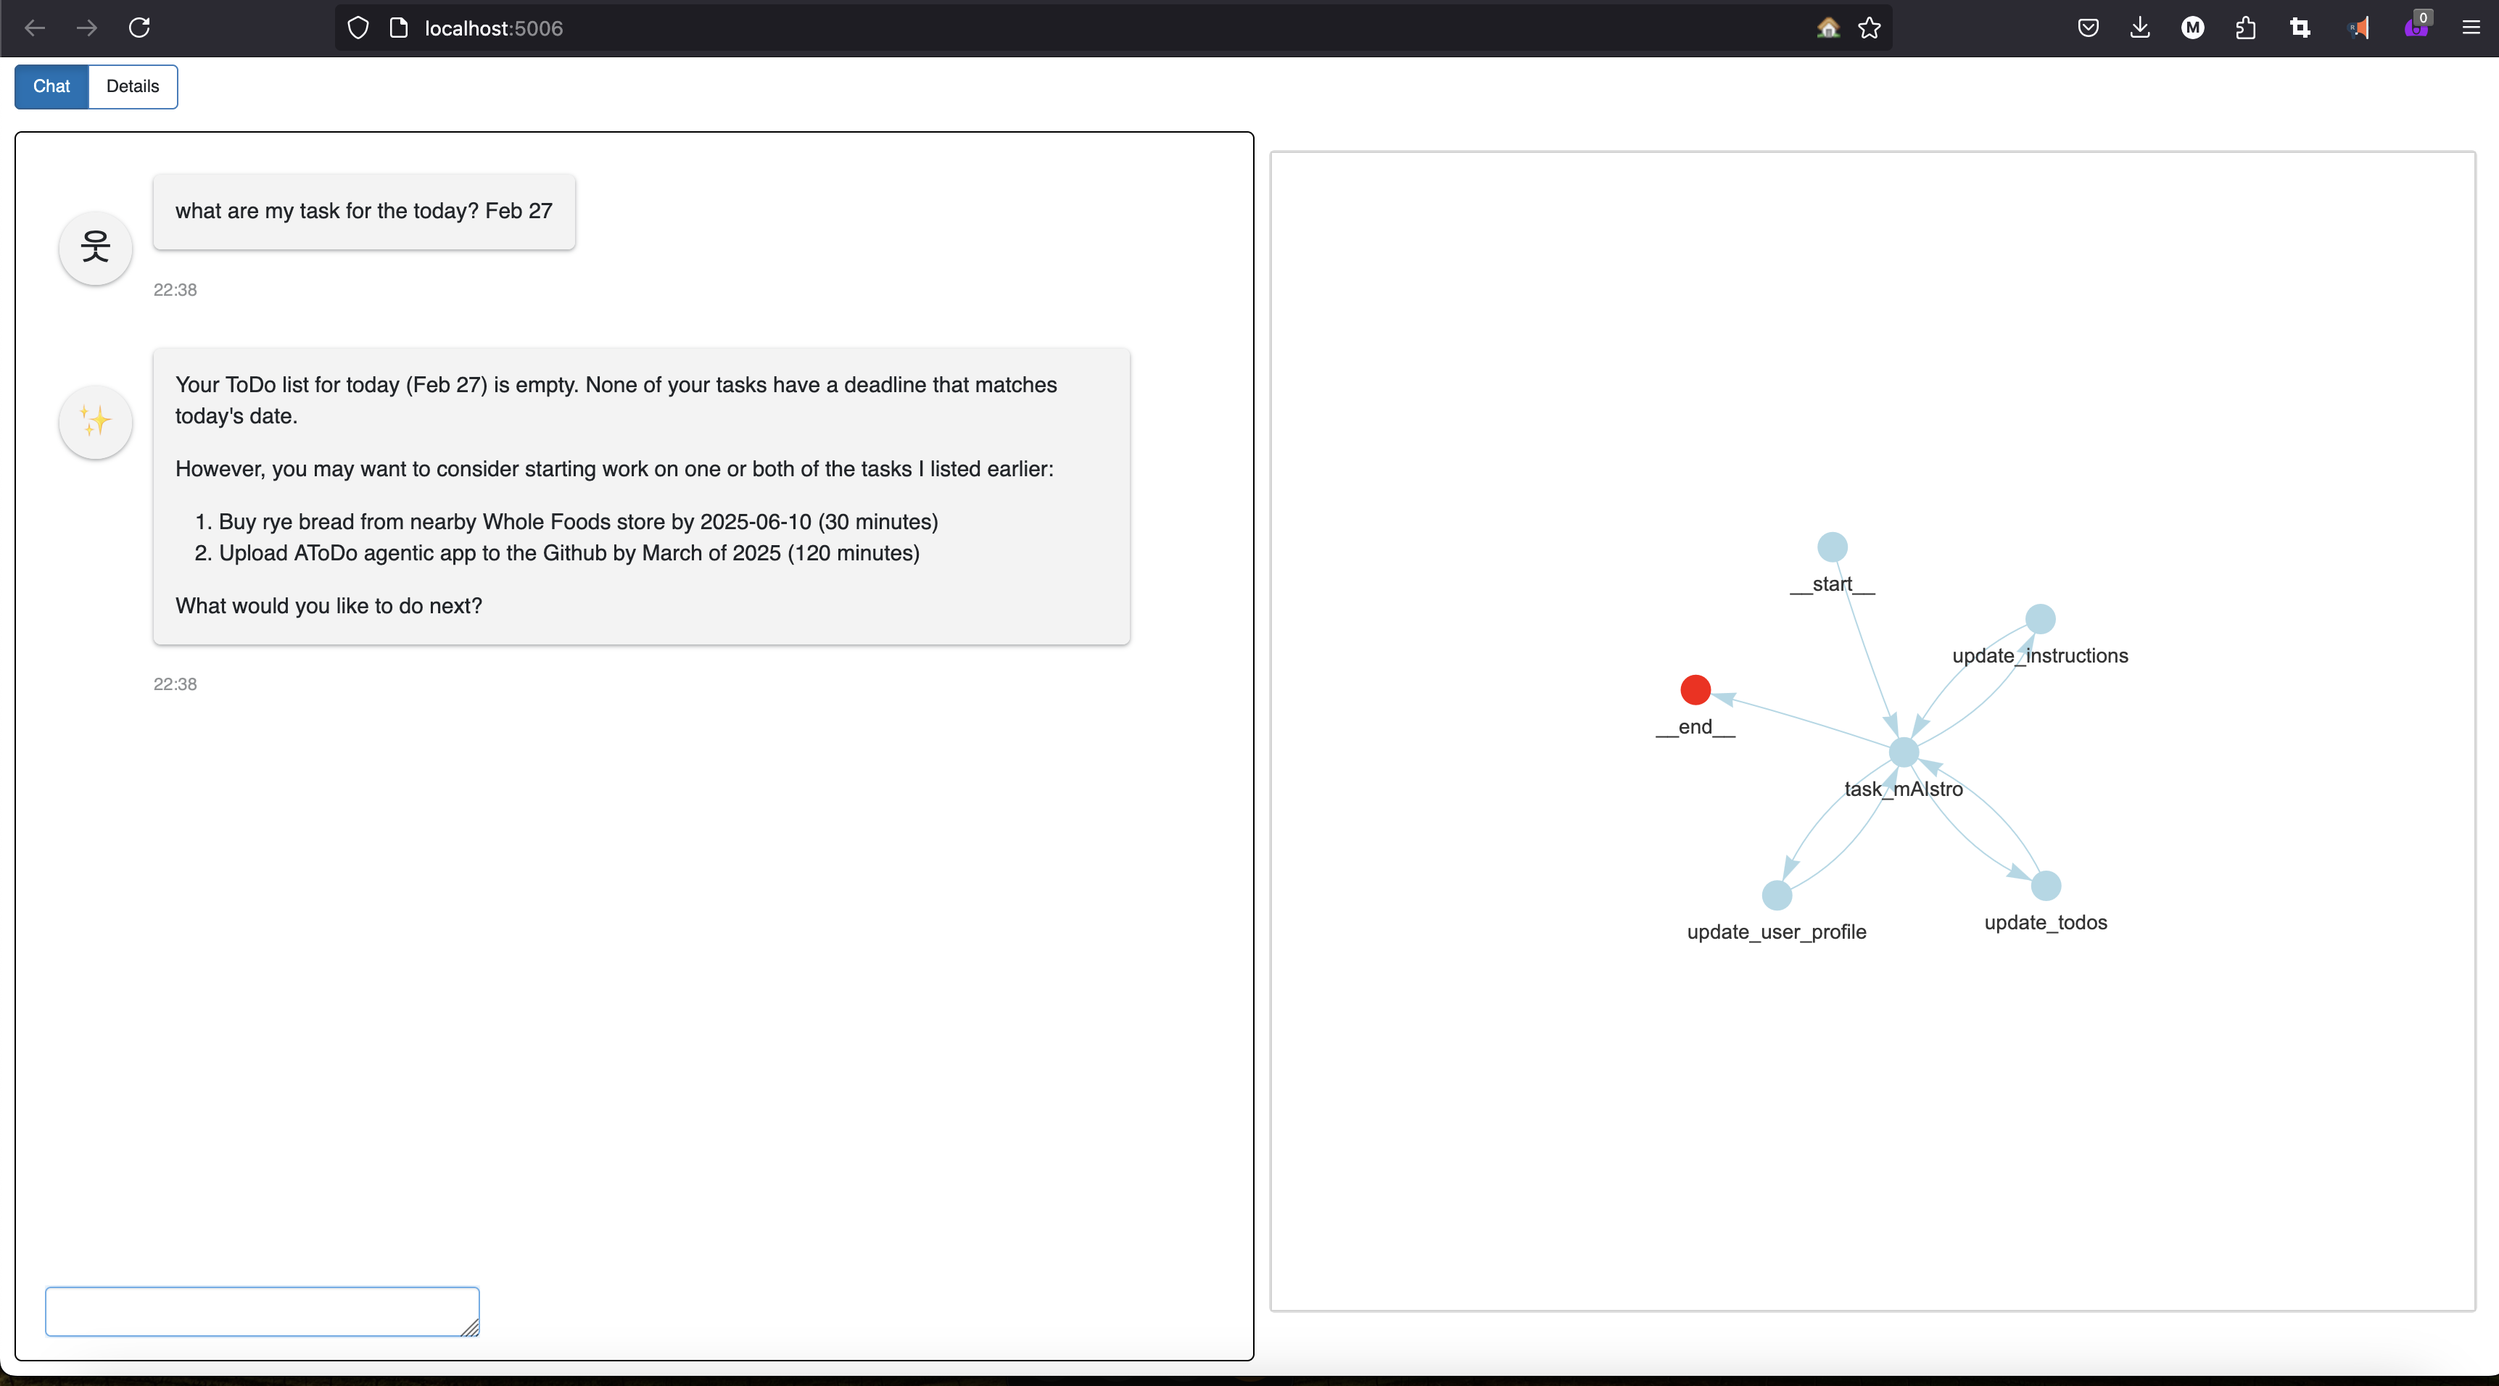
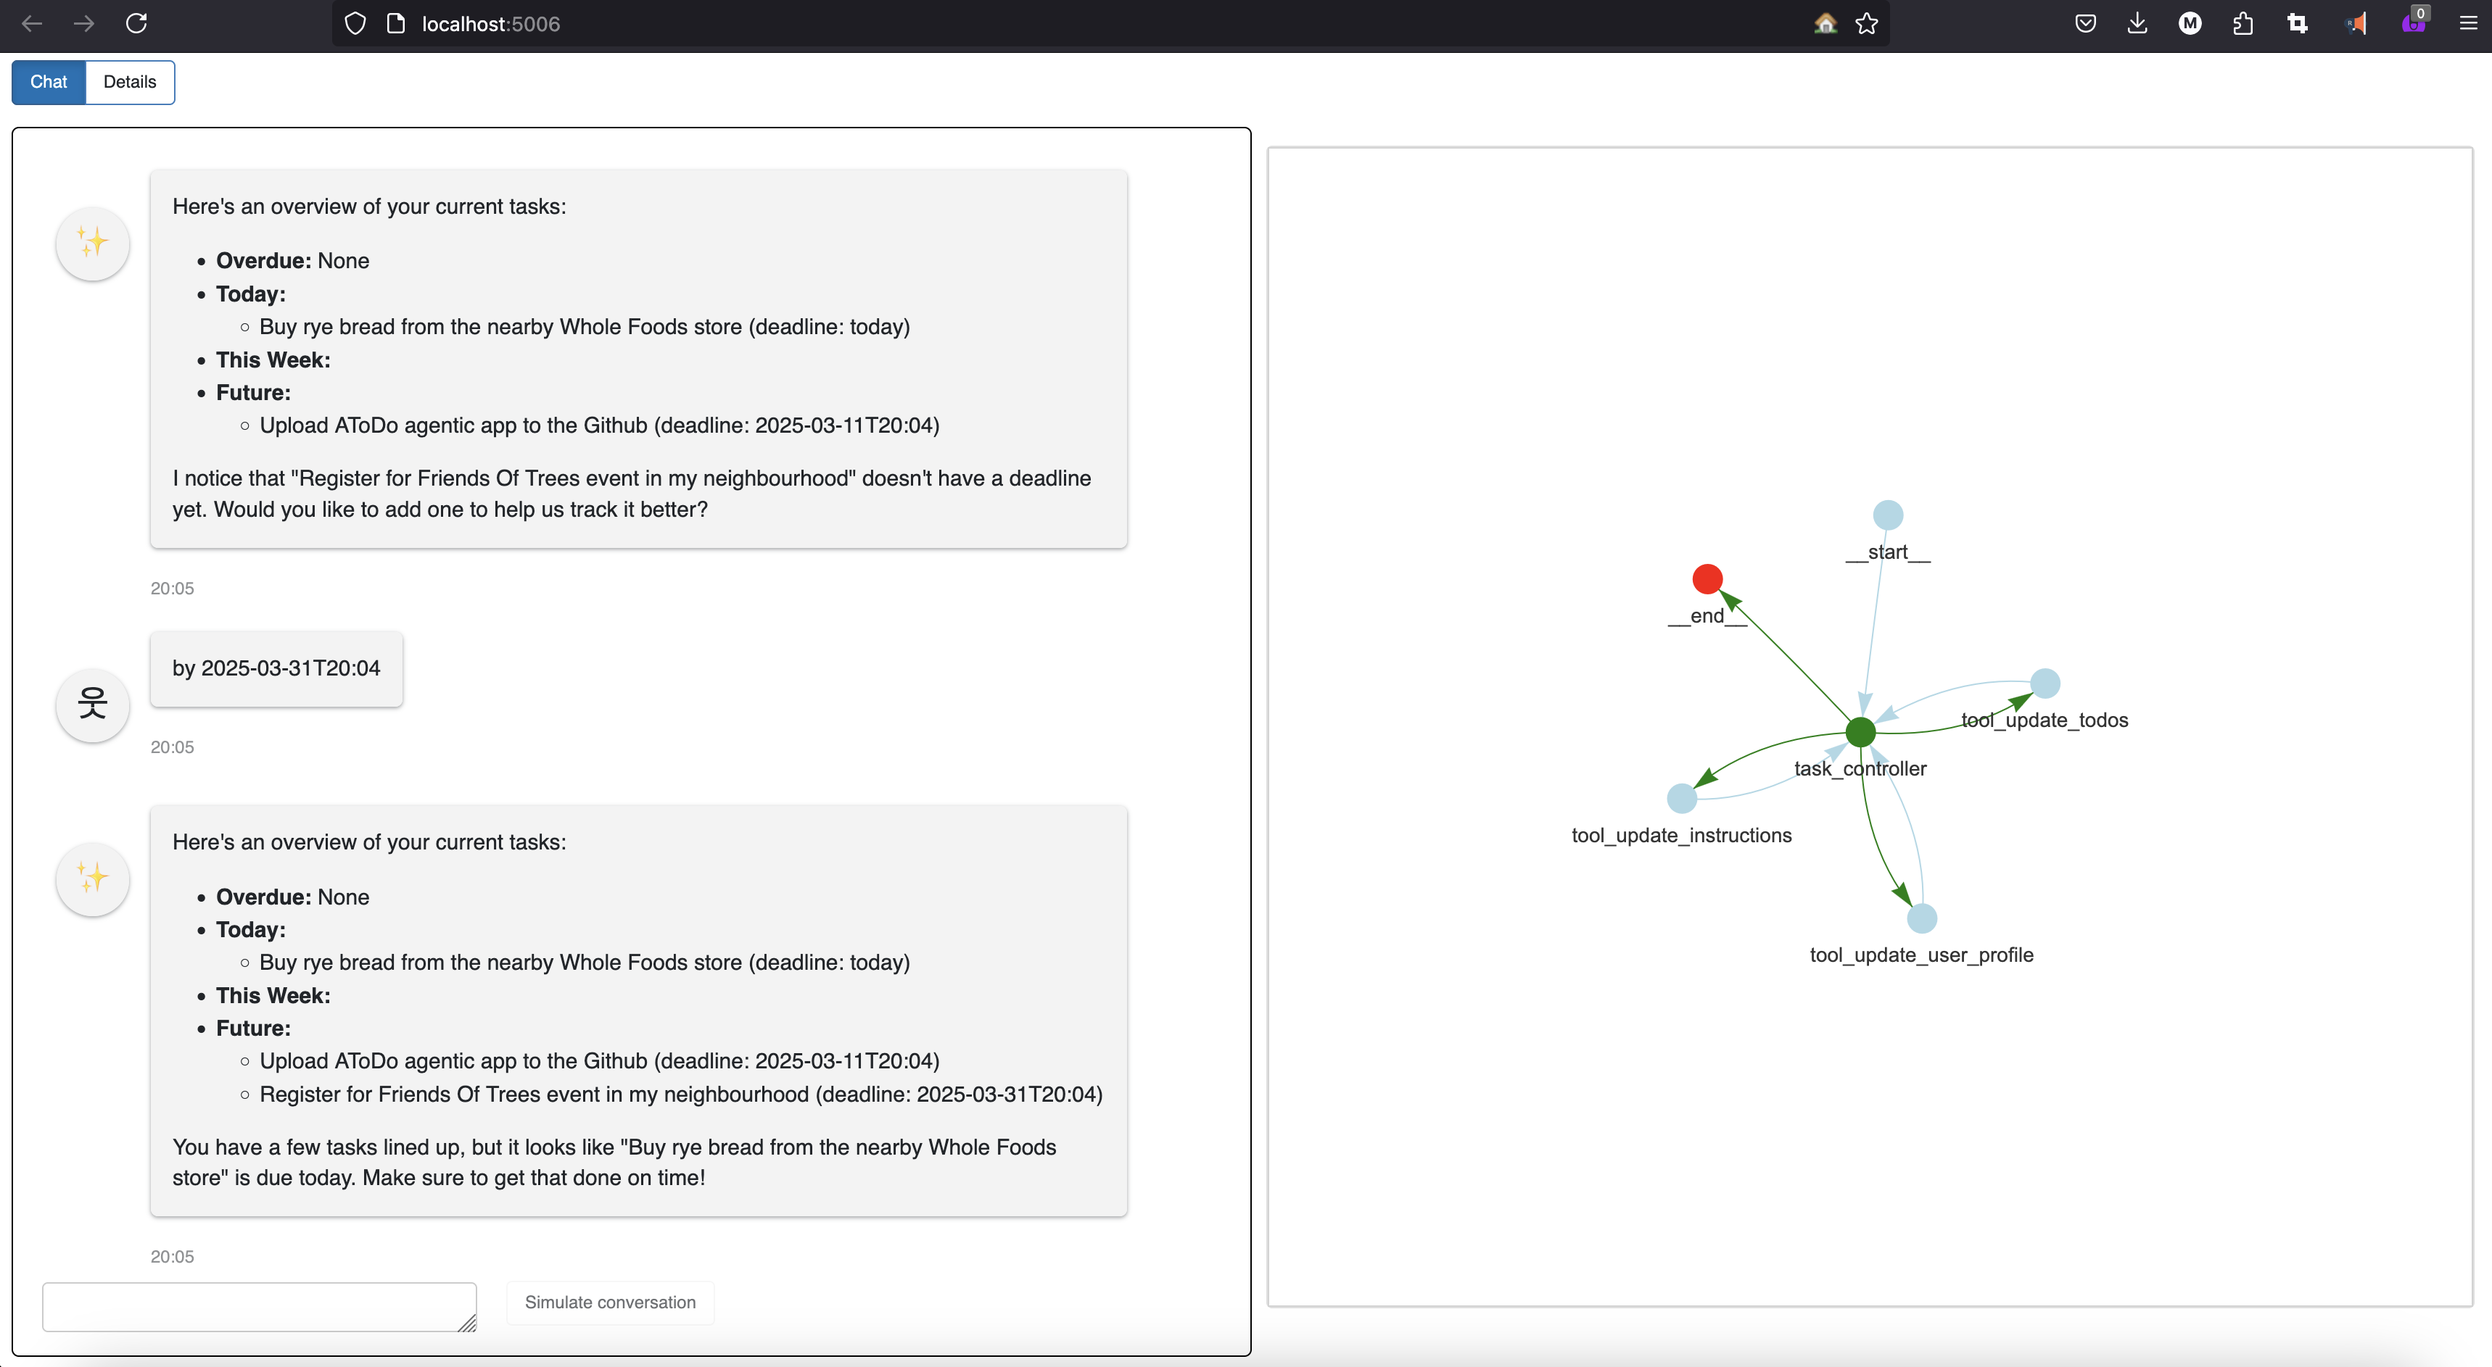
Some fixes; Adding *simulate conversation* button

diff --git a/assistant/inf_graph_todo.py b/assistant/inf_graph_todo.py
@@ -18,7 +18,7 @@ from assistant.inspector import ToolInvocationInspector, extract_tool_info
 # Chatbot instruction for choosing:
 # - what to update: user_profile, list of todos or instructions
 # - which tool to call: "user_profile", "todo" or "instructions"
-INSTRUCTION_MEMORY_TOOL_AND_RESPONSE = """{atodo_assistant_role} 
+INSTRUCTION_MEMORY_TOOL_AND_RESPONSE = """{assistant_role} 
 
 You have a long term memory which keeps track of three things:
 1. The user's profile (general information about them) 
@@ -89,14 +89,14 @@ profile_extractor = create_extractor(
 
 
 ## Node definitions
-def task_mAIstro(state: MessagesState, config: RunnableConfig, store: BaseStore):
+def task_controller(state: MessagesState, config: RunnableConfig, store: BaseStore):
     """Load memories from the Memory Store and use them to personalize the chatbot's response."""
 
     # Get the user ID from the config
     configurable = assistant.models.Configuration.from_runnable_config(config)
     user_id = configurable.user_id
     assistant_type = configurable.assistant_type
-    atodo_assistant_role = configurable.atodo_assistant_role
+    assistant_role = configurable.assistant_role
 
     # Retrieve profile memory from the store
     namespace = (MemoryType.USER_PROFILE.value, assistant_type, user_id)
@@ -120,7 +120,7 @@ def task_mAIstro(state: MessagesState, config: RunnableConfig, store: BaseStore)
         instructions = ''
 
     system_msg = INSTRUCTION_MEMORY_TOOL_AND_RESPONSE.format(
-        atodo_assistant_role=atodo_assistant_role,
+        assistant_role=assistant_role,
         user_profile=user_profile,
         todo=todo,
         instructions=instructions
@@ -136,7 +136,7 @@ def task_mAIstro(state: MessagesState, config: RunnableConfig, store: BaseStore)
     return {'messages': [response]}
 
 
-def update_user_profile(state: MessagesState, config: RunnableConfig, store: BaseStore):
+def tool_update_user_profile(state: MessagesState, config: RunnableConfig, store: BaseStore):
     """Reflect on the chat history and update User Profile memory collection."""
 
     # Get the user ID from the config
@@ -191,7 +191,7 @@ def update_user_profile(state: MessagesState, config: RunnableConfig, store: Bas
     }
 
 
-def update_todos(state: MessagesState, config: RunnableConfig, store: BaseStore):
+def tool_update_todos(state: MessagesState, config: RunnableConfig, store: BaseStore):
     """Reflect on the chat history and update the memory collection."""
 
     # Get the user ID from the config
@@ -244,10 +244,10 @@ def update_todos(state: MessagesState, config: RunnableConfig, store: BaseStore)
             r.model_dump(mode='json'),
         )
 
-    # Respond to the tool call made in task_mAIstro, confirming the update
+    # Respond to the tool call made in task_controller, confirming the update
     tool_calls = state['messages'][-1].tool_calls
 
-    # Extract the changes made by Trustcall and add the ToolMessage returned to task_mAIstro
+    # Extract the changes made by Trustcall and add the ToolMessage returned to task_controller
     todo_update_msg = extract_tool_info(spy.called_tools, tool_name)
     return {
         'messages': [
@@ -260,7 +260,7 @@ def update_todos(state: MessagesState, config: RunnableConfig, store: BaseStore)
     }
 
 
-def update_instructions(state: MessagesState, config: RunnableConfig, store: BaseStore):
+def tool_update_instructions(state: MessagesState, config: RunnableConfig, store: BaseStore):
     """Reflect on the chat history and update the memory collection."""
     key = 'user_instructions'
 
@@ -300,8 +300,7 @@ def update_instructions(state: MessagesState, config: RunnableConfig, store: Bas
 
 
 class RouteListener:
-    def update(self, next_node: str) -> None:
-        # config['metadata']['langgraph_node']
+    def update(self, current_node: str = None, next_node: str = None) -> None:
         raise NotImplementedError()
 
 
@@ -311,7 +310,7 @@ route_listeners: set[RouteListener] = set()
 # Conditional edge
 def route_message(
     state: MessagesState, config: RunnableConfig, store: BaseStore
-) -> Literal[END, update_todos.__name__, update_instructions.__name__, update_user_profile.__name__]:
+) -> Literal[END, tool_update_todos.__name__, tool_update_instructions.__name__, tool_update_user_profile.__name__]:
     """Reflect on the memories and chat history to decide whether to update the memory collection."""
     message = state['messages'][-1]
     if len(message.tool_calls) == 0:
@@ -319,17 +318,17 @@ def route_message(
     else:
         tool_call = message.tool_calls[0]
         if tool_call['args']['update_type'] == MemoryType.USER_PROFILE.value:
-            selected_node = update_user_profile.__name__
+            selected_node = tool_update_user_profile.__name__
         elif tool_call['args']['update_type'] == MemoryType.TODO.value:
-            selected_node = update_todos.__name__
+            selected_node = tool_update_todos.__name__
         elif tool_call['args']['update_type'] == MemoryType.INSTRUCTIONS.value:
-            selected_node = update_instructions.__name__
+            selected_node = tool_update_instructions.__name__
         else:
             raise ValueError(f'Unknown update_type: {tool_call["args"]["update_type"]}')
 
     global route_listeners
     for route_listener in route_listeners:
-        route_listener.update(selected_node)
+        route_listener.update(current_node=config['metadata']['langgraph_node'], next_node=selected_node)
     return selected_node
 
 
@@ -338,17 +337,17 @@ def build_graph() -> StateGraph:
     builder = StateGraph(MessagesState, config_schema=assistant.models.Configuration)
 
     # Define the flow of the memory extraction process
-    builder.add_node(task_mAIstro)
-    builder.add_node(update_todos)
-    builder.add_node(update_user_profile)
-    builder.add_node(update_instructions)
+    builder.add_node(task_controller)
+    builder.add_node(tool_update_todos)
+    builder.add_node(tool_update_user_profile)
+    builder.add_node(tool_update_instructions)
 
     # Define the flow
-    builder.add_edge(START, task_mAIstro.__name__)
-    builder.add_conditional_edges(task_mAIstro.__name__, route_message)
-    builder.add_edge(update_todos.__name__, task_mAIstro.__name__)
-    builder.add_edge(update_user_profile.__name__, task_mAIstro.__name__)
-    builder.add_edge(update_instructions.__name__, task_mAIstro.__name__)
+    builder.add_edge(START, task_controller.__name__)
+    builder.add_conditional_edges(task_controller.__name__, route_message)
+    builder.add_edge(tool_update_todos.__name__, task_controller.__name__)
+    builder.add_edge(tool_update_user_profile.__name__, task_controller.__name__)
+    builder.add_edge(tool_update_instructions.__name__, task_controller.__name__)
     return builder
 
 

diff --git a/assistant/app.py b/assistant/app.py
@@ -1,4 +1,5 @@
 from collections import namedtuple
+from datetime import datetime, timedelta
 
 import panel as pn
 from langchain_core.messages import HumanMessage
@@ -18,7 +19,7 @@ TAB_TODO = 'mem: ToDos'
 TAB_INSTRUCTIONS = 'mem: Instructions'
 
 EMPTY_JSON = {}
-MockEvent = namedtuple('MockEvent', ['name', 'old', 'new'])
+MockEvent = namedtuple(typename='MockEvent', field_names=['name', 'old', 'new'])
 
 class AssistantApp:
     def __init__(self) -> None:
@@ -31,10 +32,14 @@ class AssistantApp:
         self.chat_feed = pn.chat.ChatFeed()
         self.chat_input = pn.chat.ChatAreaInput()
         self.chat_input.param.watch(self.submit_message_action, 'value')
+        self.btn_simulate_conv = pn.widgets.Button(
+            name='Simulate conversation', button_type='default', button_style='outline'
+        )
+        self.btn_simulate_conv.on_click(self.simulate_conversation)
 
         self.chat_interface = pn.Column(
             self.chat_feed,
-            self.chat_input,
+            pn.Row(self.chat_input, self.btn_simulate_conv),
             sizing_mode='stretch_both',
             styles={'border': '1px solid black', 'padding': '10px', 'border-radius': '5px'},
         )
@@ -90,8 +95,6 @@ class AssistantApp:
             self.panel_details
         )
 
-        self._init_profile()
-
     def on_navigation_change(self, event: Event):
         if event.new == PAGE_NAME_CHAT:
             self.panel_main.visible = True
@@ -124,8 +127,11 @@ class AssistantApp:
         existing_memory = across_thread_memory.search(namespace)
         component.value = [entry.value for entry in existing_memory]
 
-    def submit_message_action(self, event: Event) -> None:
+    def submit_message_action(self, event: Event | MockEvent) -> None:
         """Handles message submission and updates the chat feed."""
+        self.btn_simulate_conv.disabled = True  # any interaction with the Input Field disables the Simulation Button
+
+
         user_message = event.new
         if user_message:
             msg_settings = dict(
@@ -149,14 +155,35 @@ class AssistantApp:
 
         return response
 
-    def _init_profile(self):
-        # self.chat_input.value = 'What tasks can I get done today?'
+    def simulate_conversation(self, event: Event | MockEvent) -> None:
         human_messages = [
             'I am Dan. I live in Beaverton, Oregon, and like to ride my bicycle.',
-            'Create or update few ToDos: 1) Buy rye bread from nearby Whole Foods store by 2025-06-10. 2) Upload AToDo agentic app to the Github by March of 2025.'
+            """
+Consider following instructions:
+- When providing a 'todo summary':
+  1. List all current tasks grouped by deadline (overdue, today, this week, future)
+  2. Highlight any tasks missing deadlines and gently encourage adding them
+  3. Note any tasks that seem important but lack time estimates
+- Proactively ask for deadlines when new tasks are added without them
+- Maintain a supportive tone while helping the user stay accountable
+- Help prioritize tasks based on deadlines and importance
+
+Your communication style should be encouraging and helpful, never judgmental. 
+
+When tasks are missing deadlines, respond with something like "I notice [task] doesn't have a deadline yet. Would you like to add one to help us track it better?
+            """,
+            f"""
+Current time is: {datetime.now().isoformat(timespec='minutes')}.
+Create or update few ToDos: 
+1) Buy rye bread from the nearby Whole Foods store by {(datetime.now() + timedelta(hours=3)).isoformat(timespec='minutes')}. 
+2) Upload AToDo agentic app to the Github by {(datetime.now() + timedelta(days=10)).isoformat(timespec='minutes')}.
+3) Register for Friends Of Trees event in my neighbourhood.
+            """,
+            f"""by {(datetime.now() + timedelta(days=30)).isoformat(timespec='minutes')}""",  # provide missing deadline
+            # 'Please show me my current tasks',
         ]
         for message in human_messages:
-            self.get_llm_response(message)
+            self.submit_message_action(MockEvent(name='value', old=None, new=message))
 
     def get_dashboard(self) -> pn.Column:
         """Returns the Panel dashboard."""

diff --git a/assistant/graph_visualizer.py b/assistant/graph_visualizer.py
@@ -8,8 +8,9 @@ from pyvis.network import Network
 from assistant.inf_graph_todo import RouteListener
 
 # Define colors
-DEFAULT_COLOR = 'lightblue'
-SELECTED_COLOR = 'red'
+DEFAULT_NODE_COLOR = 'lightblue'
+TARGET_NODE_COLOR = 'red'
+SOURCE_NODE_COLOR = 'green'
 
 
 class GraphVisualizer(pn.pane.HTML):
@@ -35,7 +36,7 @@ class GraphVisualizer(pn.pane.HTML):
 
         # Initialize all nodes with the default color
         for node in self.nx_G.nodes:
-            self.node_colors[node] = DEFAULT_COLOR
+            self.node_colors[node] = DEFAULT_NODE_COLOR
 
         # Assign node positions to `nx_G`
         pos = nx.spring_layout(self.nx_G)
@@ -81,10 +82,16 @@ class GraphVisualizer(pn.pane.HTML):
         </iframe>
         """
 
-    def update_node_color(self, selected_node: str) -> None:
+    def update_node_color(self, source_node: str, target_node: str) -> None:
         """Change the color of a node dynamically without reloading layout."""
         for node in self.nx_G.nodes:
-            self.node_colors[node] = DEFAULT_COLOR if node != selected_node else SELECTED_COLOR
+            if node == source_node:
+                node_color = SOURCE_NODE_COLOR
+            elif node == target_node:
+                node_color = TARGET_NODE_COLOR
+            else:
+                node_color = DEFAULT_NODE_COLOR
+            self.node_colors[node] = node_color
         self._apply_colors()
         self._update_html()
 
@@ -93,5 +100,5 @@ class NodeColorizer(RouteListener):
     def __init__(self, graph_visualizer: GraphVisualizer, **params):
         self.graph_visualizer = graph_visualizer
 
-    def update(self, next_node: str) -> None:
-        self.graph_visualizer.update_node_color(next_node)
+    def update(self, current_node: str = None, next_node: str = None) -> None:
+        self.graph_visualizer.update_node_color(source_node=current_node, target_node=next_node)

diff --git a/assistant/models.py b/assistant/models.py
@@ -59,7 +59,7 @@ class Configuration:
     """The configurable fields for the chatbot."""
     user_id: str = 'default-user'
     assistant_type: str = 'general'
-    atodo_assistant_role: str = "You are a helpful task management assistant. You help to create, organize, and track the user's ToDo list."
+    assistant_role: str = "You are a helpful task management assistant. You help to create, organize, and track the user's ToDo list."
 
     @classmethod
     def from_runnable_config(cls, config: Optional[RunnableConfig] = None) -> Self:

diff --git a/README.md b/README.md
@@ -6,3 +6,4 @@ On the main "Chat" page user is presented with the chatbot interface, as well as
 ![atodo-screenshot-1.png](docs/atodo-screenshot-1.png)
 ![atodo-screenshot-2.png](docs/atodo-screenshot-2.png)
 ![atodo-screenshot-3.png](docs/atodo-screenshot-3.png)
+![atodo-screenshot-4.png](docs/atodo-screenshot-4.png)
